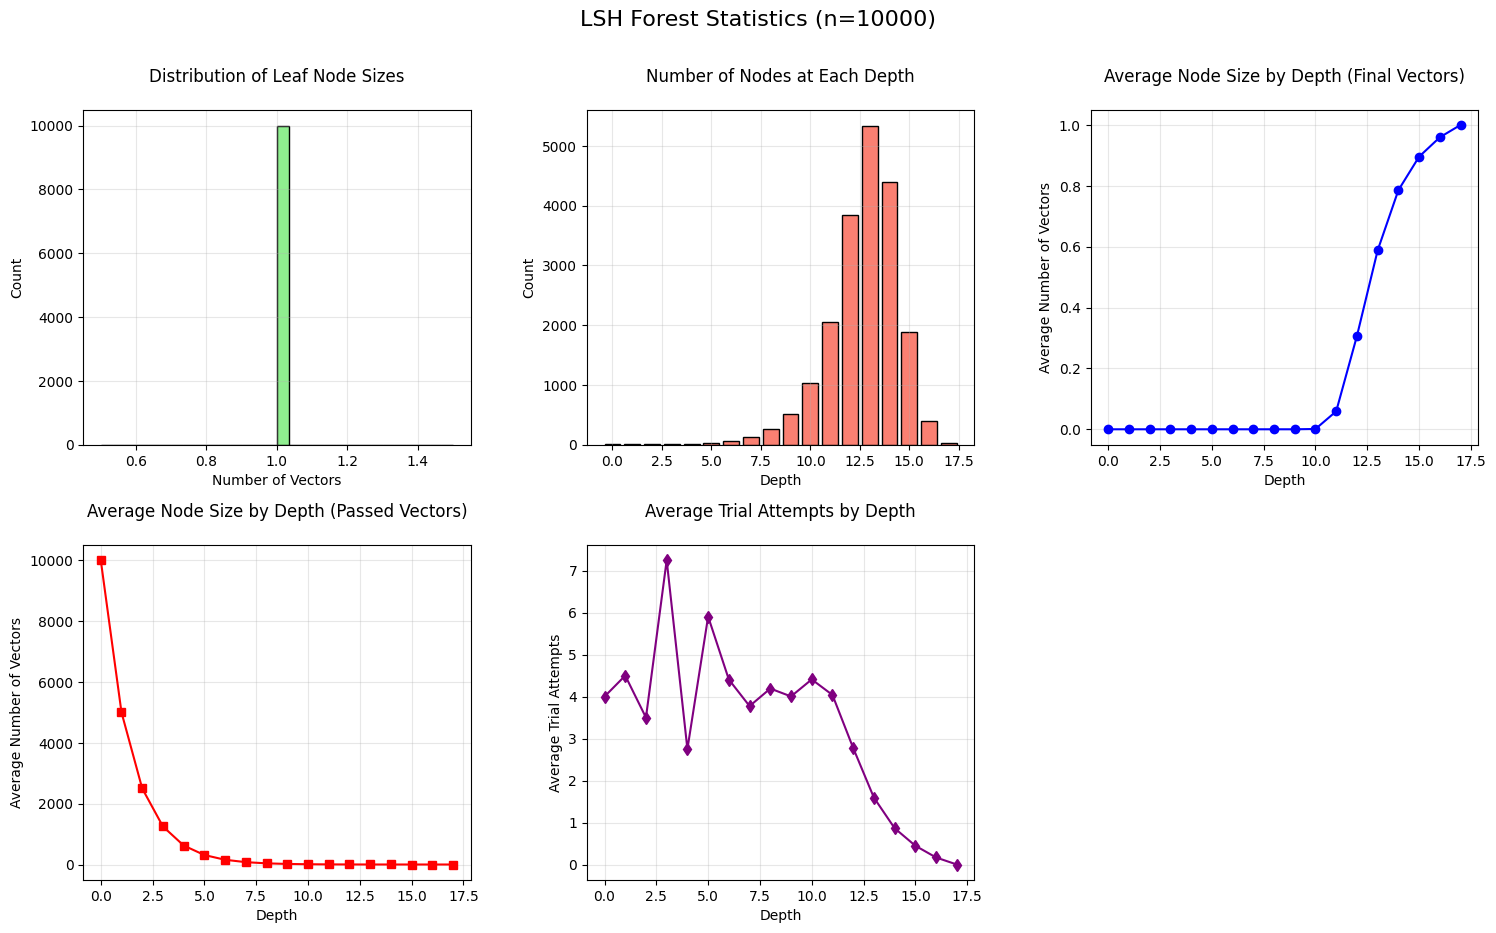
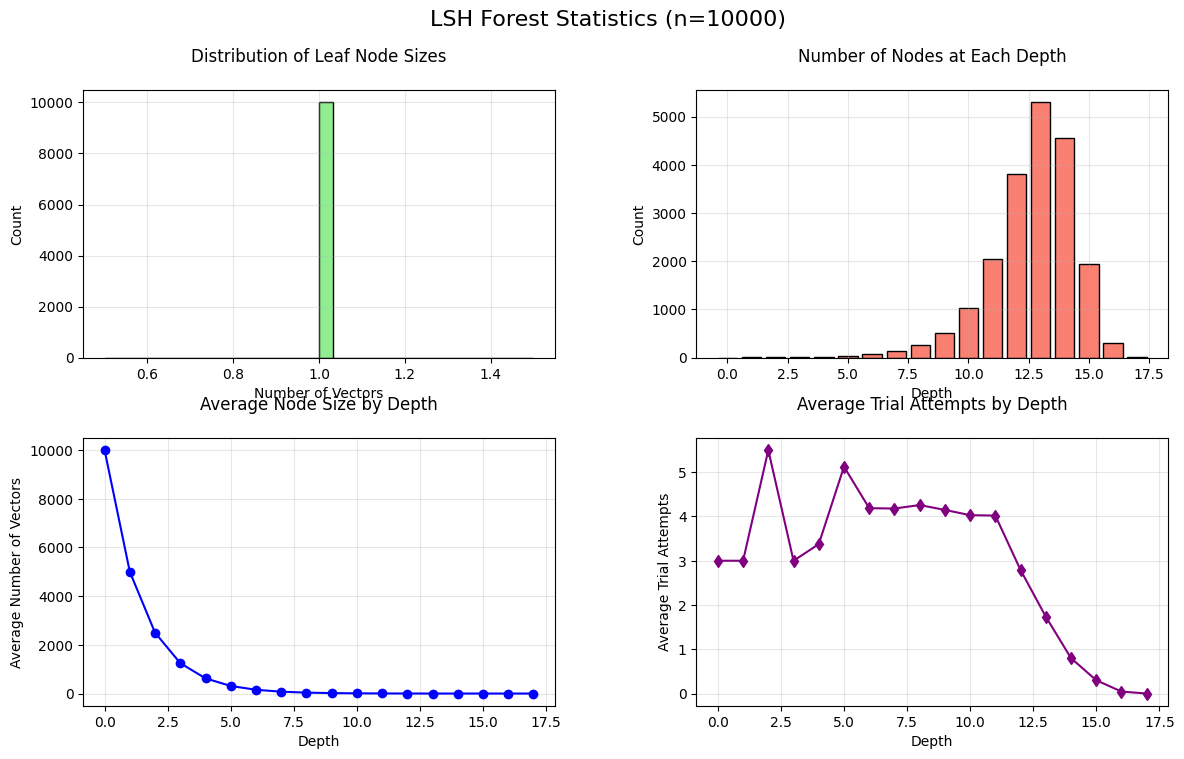
Improved logic for multiple trees and added parameter sweep results

diff --git a/src/shared/utils.py b/src/shared/utils.py
@@ -2,7 +2,9 @@ import numpy as np
 import time
 import matplotlib.pyplot as plt
 import os
-from .lsh_forest import LSHForest, MultiDocLSHForest, RandomHyperplaneLSH
+import random
+from lsh_forest import LSHForest, MultiDocLSHForest, RandomHyperplaneLSH
+from recursive_lsh_forest import RecursiveLSHForest, Node
 
 
 
@@ -106,8 +108,6 @@ def build_rec_forest(vectors, l, km, d, max_split_ratio=1.2, max_hash_attempts=1
     RecursiveLSHForest
         The built LSH forest
     """
-    from .recursive_lsh_forest import RecursiveLSHForest
-    
     lsh_family = RandomHyperplaneLSH(dim=d)
     forest = RecursiveLSHForest(
         lsh_family=lsh_family,
@@ -123,7 +123,7 @@ def build_rec_forest(vectors, l, km, d, max_split_ratio=1.2, max_hash_attempts=1
 def query_rec(forest, query, max_candidates, k=1):
     """
     Query the recursive LSH forest for k nearest neighbors.
-    Uses a level-by-level approach across all trees to collect candidates.
+    Collects max_candidates from each tree separately and then combines them.
     
     Parameters:
     -----------
@@ -132,7 +132,7 @@ def query_rec(forest, query, max_candidates, k=1):
     query : np.ndarray
         The query vector
     max_candidates : int
-        Maximum number of candidates to consider
+        Maximum number of candidates to consider from each tree
     k : int
         Number of nearest neighbors to return (default=1)
         
@@ -141,52 +141,45 @@ def query_rec(forest, query, max_candidates, k=1):
     List[int]
         List of k nearest neighbor indices
     """
-    from .recursive_lsh_forest import Node
-    import random
-    
-    # First, collect leaf nodes from all trees
     all_candidates = set()
-    current_level_nodes = []
     
-    # Get all leaf nodes from all trees
+    # Process each tree separately
     for tree_idx in range(forest.l):
+        tree_candidates = set()
+        
+        # Get leaf node for this tree
         root = forest.roots[tree_idx]
-        # Find leaf node for this tree
         node = root
         while node.left and node.right and node.hash_func:
             if node.hash_func(query) == 0:
                 node = node.left
             else:
                 node = node.right
-        current_level_nodes.append(node)
-        all_candidates.update(node.vector_ids)
-    
-    # If we need more candidates, start going up the trees level by level
-    while len(all_candidates) < max_candidates:
-        next_level_nodes = []
-        new_candidates = set()
         
-        # Get parent nodes for all current level nodes
-        for node in current_level_nodes:
-            if node.parent:
-                next_level_nodes.append(node.parent)
-                new_candidates.update(node.parent.vector_ids)
+        # Start with the leaf node's vectors
+        tree_candidates.update(node.vector_ids)
         
-        if not next_level_nodes:  # No more parents to consider
-            break
+        # If we need more candidates, go up the tree
+        while len(tree_candidates) < max_candidates and node.parent:
+            # Get parent's vectors
+            new_candidates = set(node.parent.vector_ids)
+            available_new = list(new_candidates - tree_candidates)
             
-        # Add new candidates up to max_candidates
-        remaining_slots = max_candidates - len(all_candidates)
-        available_new = list(new_candidates - all_candidates)
-        if len(new_candidates) <= remaining_slots:
-            all_candidates.update(new_candidates)
-        elif len(available_new) > 0:
-            # Randomly sample from new candidates
-            sample_size = min(remaining_slots, len(available_new))
-            sampled = random.sample(available_new, sample_size)
-            all_candidates.update(sampled)
+            if len(available_new) > 0:
+                # Add new candidates up to max_candidates
+                remaining_slots = max_candidates - len(tree_candidates)
+                if len(available_new) <= remaining_slots:
+                    tree_candidates.update(available_new)
+                else:
+                    # Randomly sample from new candidates
+                    sampled = random.sample(available_new, remaining_slots)
+                    tree_candidates.update(sampled)
+            
+            # Move up to parent
+            node = node.parent
         
-        current_level_nodes = next_level_nodes
+        # Add this tree's candidates to the overall set
+        all_candidates.update(tree_candidates)
     
     # Convert to list and compute distances
     candidates_list = list(all_candidates)
@@ -373,7 +366,7 @@ def main():
     print("\nTest Case 2: Recall test")
     forest = build_rec_forest(
         vectors=vectors,
-        l=5,  # Using middle value from l sweep
+        l=10,  # Using middle value from l sweep
         km=defaults['km'],
         d=dim,
         max_split_ratio=defaults['max_split_ratio'],

diff --git a/src/shared/test_query.py b/src/shared/test_query.py
@@ -288,15 +288,15 @@ def parameter_sweep(
 
 if __name__ == "__main__":
     # Base parameters
-    dim = 50
-    n_targets = 1000000
-    n_queries = 1000
+    dim = 3
+    n_targets = 1000
+    n_queries = 10
     l = 1
     km = 30
     max_split_ratio = 10
     max_hash_attempts = 1000
-    max_candidates = 200
-    
+    max_candidates = 700
+ 
     # Create results directory
     results_dir = os.path.abspath(os.path.join(os.path.dirname(__file__), '../../results/test_query'))
     os.makedirs(results_dir, exist_ok=True)
@@ -314,16 +314,34 @@ if __name__ == "__main__":
     )
     forest.build_forest(target_vectors)
     
-    # Run parameter sweeps
-    parameter_sweep(
-        param_name='max_candidates',
-        param_range=[200, 400, 600, 800, 1000, 1200, 1400, 1600, 1800, 2000, 2200, 2400, 2600, 2800, 3000, 3200, 3400, 3600, 3800, 4000],
-        n_targets=n_targets,
+
+    #     def test_queries(
+#     forest: RecursiveLSHForest,
+#     target_vectors: np.ndarray,
+#     n_queries: int = 10,
+#     dim: int = 100,
+#     max_candidates: int = 100,
+#     save_plot: bool = True
+# ) -> List[Optional[int]]:
+#     """
+
+    test_queries(
+        forest=forest,
+        target_vectors=target_vectors,
         n_queries=n_queries,
         dim=dim,
-        l=l,
-        km=km,
-        max_split_ratio=max_split_ratio,
-        max_hash_attempts=max_hash_attempts,
-        max_candidates=max_candidates
+        max_candidates=max_candidates,
     )
+    # Run parameter sweeps
+    # parameter_sweep(
+    #     param_name='max_candidates',
+    #     param_range=[200, 400, 600, 800, 1000, 1200, 1400, 1600, 1800, 2000, 2200, 2400, 2600, 2800, 3000, 3200, 3400, 3600, 3800, 4000],
+    #     n_targets=n_targets,
+    #     n_queries=n_queries,
+    #     dim=dim,
+    #     l=l,
+    #     km=km,
+    #     max_split_ratio=max_split_ratio,
+    #     max_hash_attempts=max_hash_attempts,
+    #     max_candidates=max_candidates
+    # )

diff --git a/src/shared/recursive_lsh_forest.py b/src/shared/recursive_lsh_forest.py
@@ -133,59 +133,3 @@ class RecursiveLSHForest:
             return
         # If we couldn't find any valid split, just keep all vectors in this node
         
-    def query(
-        self,
-        q: np.ndarray,
-        m: int = 1,
-        dist: Callable[[np.ndarray, np.ndarray], float] = None
-    ) -> List[Tuple[int, float]]:
-        """
-        Query the forest for the m nearest neighbors of q.
-        
-        Parameters:
-        -----------
-        q : np.ndarray
-            Query vector
-        m : int
-            Number of nearest neighbors to return
-        dist : Callable
-            Distance function to use (defaults to Hamming distance)
-            
-        Returns:
-        --------
-        List[Tuple[int, float]]
-            List of (index, distance) pairs for the m nearest neighbors
-        """
-        if dist is None:
-            dist = lambda a, b: np.count_nonzero(a != b)  # Hamming distance
-            
-        candidates = set()
-        
-        # Query each tree
-        for tree_idx, root in enumerate(self.roots):
-            self._query_tree(root, q, candidates)
-            
-        # Rank and return m best
-        scored = [(i, dist(q, self.data[i])) for i in candidates]
-        scored.sort(key=lambda x: x[1])
-        return scored[:m]
-        
-    def _query_tree(
-        self,
-        node: Node,
-        q: np.ndarray,
-        candidates: set
-    ):
-        """Recursively query a single tree."""
-        if not node:
-            return
-            
-        # Add vectors from this node
-        candidates.update(node.vector_ids)
-        
-        # If we have children, continue traversal
-        if node.left and node.right and node.hash_func:
-            if node.hash_func(q) == 0:
-                self._query_tree(node.left, q, candidates)
-            else:
-                self._query_tree(node.right, q, candidates) 

diff --git a/src/shared/forest_insights.py b/src/shared/forest_insights.py
@@ -310,7 +310,7 @@ class ForestAnalyzer:
 
 def main():
     # Create analyzer with max_split_ratio=1.2
-    analyzer = ForestAnalyzer(n_vectors=10000, cluster_centers=1, dim=128, max_depth=20, max_split_ratio=2,
+    analyzer = ForestAnalyzer(n_vectors=100, cluster_centers=5, dim=128, max_depth=20, max_split_ratio=2,
                                n_trees=1, cluster_std=1, max_hash_attempts=1000)
     
     # Print summary
